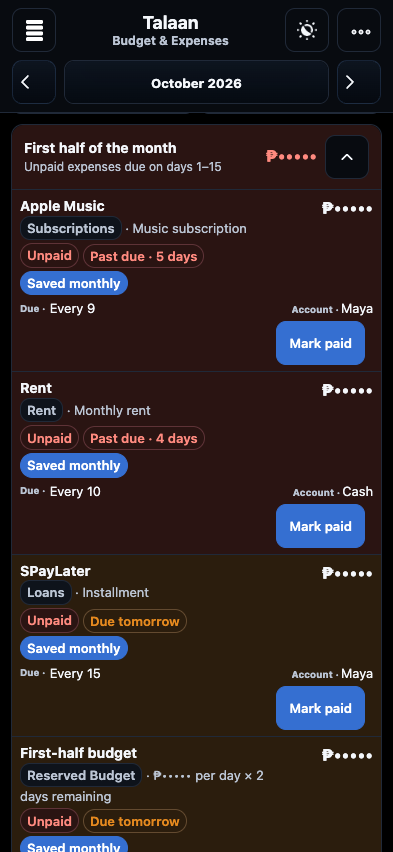
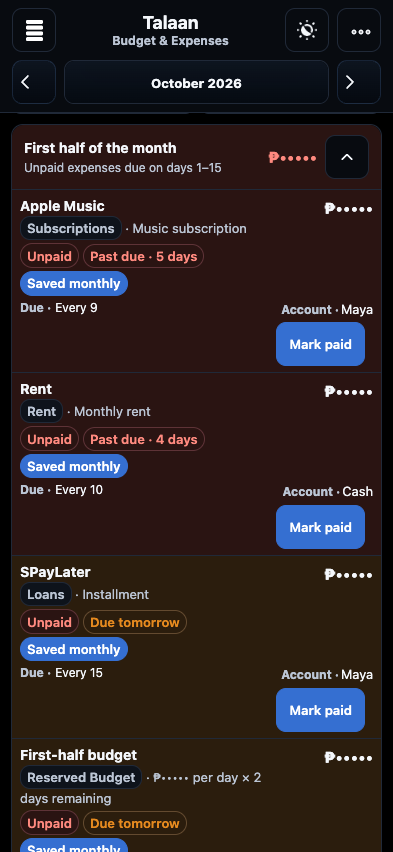
fix: normalize remaining phone annotations

diff --git a/assets/css/phone-scale.css b/assets/css/phone-scale.css
@@ -17,6 +17,23 @@
 @layer talaan-readable-ui {
 @scope (:root:has(#moneyPrioritySummary)) {
 @media (max-width:700px), (pointer:coarse) and (max-width:932px) {
+  /* Legacy spans and generated field prefixes must not bypass the copy scale. */
+  :scope body :is(#dashboard,#money,#income,#paid-expenses,#projects,#payments,#reports,#settings,dialog) :where(div,span,strong,em,b,i,a,time,dt,dd,li,abbr,sup,sub,code,kbd,samp,th,td):where(:not([aria-hidden="true"]):not(.sr-only)) {
+    font-size:var(--phone-helper-size) !important;
+    line-height:1.4 !important;
+  }
+  :scope body :is(#dashboard,#money,#income,#paid-expenses,#projects,#payments,#reports,#settings,dialog) :is(h1,h2,h3,h4,button:not(.settings-status-card):not(.calendar-day),summary,label,.amount,.period-total,.kpi-value,.summary-card-value,.legend-total,.account-card-main > strong,#moneyAvailableTotal,#moneyRemainingValue,#moneyOutstandingValue) :is(span,strong,em,b,i,abbr,time):not([aria-hidden="true"]):not(.sr-only) {
+    font-size:inherit !important;
+    line-height:inherit !important;
+  }
+  :scope body :is(#dashboard,#money,#income,#paid-expenses,#projects,#payments,#reports,#settings,dialog) [data-label]::before {
+    font-size:var(--phone-helper-size) !important;
+    line-height:1.4 !important;
+  }
+  :scope body :is(#dashboard,#money,#income,#paid-expenses,#projects,#payments,#reports,#settings) :is(.record-title-copy > strong,.account-card-label > span,.project-title-text,.calendar-day-number) {
+    font-size:var(--phone-section-title-size) !important;
+    line-height:1.4 !important;
+  }
   :scope body :is(#dashboard,#money,#income,#paid-expenses,#projects,#payments,#reports,#settings) :is(h1,h2) {
     font-size:var(--phone-page-title-size) !important;
     line-height:1.3 !important;
@@ -87,6 +104,13 @@
   }
   :scope body label:has(> input:is([type="checkbox"],[type="radio"])) { min-width:44px !important; min-height:44px !important; }
   :scope body .icon-name-control { grid-template-columns:44px minmax(0,1fr) !important; gap:8px !important; }
+  :scope body #settings .settings-status-copy { min-width:0 !important; }
+  :scope body #settings .settings-status-copy :is(strong,small) {
+    white-space:normal !important;
+    overflow-wrap:anywhere;
+    overflow:visible !important;
+    text-overflow:clip !important;
+  }
   :scope body #money #moneyPrioritySummary { padding:12px !important; }
   :scope body #money :is(.account-card,.record-row[data-expense-row]) { padding:6px 8px !important; }
   :scope body #money :is(#availableMoneySection .card-header,.period-header) {

diff --git a/assets/css/expense-compact.css b/assets/css/expense-compact.css
@@ -2652,7 +2652,7 @@ html body #paidExpenseList .desktop-record-actions > [data-toggle-saved] .saved-
   :scope body #money :is(.account-card-label small,.record-title-copy small,.record-label,.record-meta,.record-status-chip,.summary-card-label) { font-size:13px !important; line-height:1.4 !important; }
   :scope body #money :is(.ui-tag,.status-badge,.expense-inline-note,.due-cell,[data-label]:not(.amount)) { font-size:13px !important; line-height:1.4 !important; }
   :scope body #money :is(.account-card-label > span,.account-card-main > span,.record-title-copy > strong,.period-header h3,.card-header h3) { font-size:14px !important; line-height:1.4 !important; }
-  :scope body #money :is(.account-card-main > strong,.amount,.period-total,#moneyAvailableTotal) { font-size:17px !important; line-height:1.4 !important; }
+  :scope body #money :is(.account-card-main > strong,.amount,.period-total,#moneyAvailableTotal) { font-size:var(--phone-amount-size,17px) !important; line-height:1.4 !important; }
   :scope body #money :is(.record-row[data-expense-row],.account-card) { height:auto !important; max-height:none !important; }
   :scope body #money .record-row[data-expense-row] .record-title-copy { white-space:normal !important; }
   :scope body #money .record-row[data-expense-row] .record-title-copy > :is(strong,small) { white-space:normal !important; overflow:visible !important; }

diff --git a/index.html b/index.html
@@ -58,7 +58,7 @@
   <link rel="stylesheet" href="./production-ui-audit.css?v=2.5.0-talaan1">
   <link rel="stylesheet" href="./summary-mascots.css?v=2.5.0-ui-37fc672009f7">
   <link rel="stylesheet" href="./ui-radius.css?v=2.5.0-ui-37fc672009f7">
-  <link rel="stylesheet" href="./phone-scale.css?v=2.5.0-phone-821cadd250e7">
+  <link rel="stylesheet" href="./phone-scale.css?v=2.5.0-phone-bb3dc462dbe6">
   <script src="./form-inputs.js?v=2.5.0-talaan1"></script>
   <script src="./application-help.js?v=2.5.0-talaan1"></script>
   <script src="./pwa-update.js?v=2.5.0-talaan1"></script>

diff --git a/sw.js b/sw.js
@@ -26,7 +26,7 @@ const APP_SHELL = [
   asset("./desktop-ux.css?v=2.5.0-talaan1"),
   asset("./production-ui-audit.css?v=2.5.0-talaan1"),
   asset("./summary-mascots.css?v=2.5.0-ui-37fc672009f7"),
-  asset("./phone-scale.css?v=2.5.0-phone-821cadd250e7"),
+  asset("./phone-scale.css?v=2.5.0-phone-bb3dc462dbe6"),
   asset("./form-inputs.js?v=2.5.0-talaan1"),
   asset("./application-help.js?v=2.5.0-talaan1"),
   asset("./pwa-update.js?v=2.5.0-talaan1"),

diff --git a/docs/ui/compact-phone-scale/README.md b/docs/ui/compact-phone-scale/README.md
@@ -15,7 +15,7 @@ Approved audit findings 18–21, 14 October 2026. This change shares the phone t
 | Effective tap area | At least 44px |
 | Control / card / dialog corner | 10px / 12px / 16px |
 
-`assets/css/phone-scale.css` owns the type and touch rules. The canonical radius stylesheet owns responsive corner tokens. Portrait applies at up to 700px; coarse-pointer layouts retain the shared scale up to 932px, including iPhone landscape. Native checkbox drawings stay small inside larger labels, and calendar cells retain event space. Hidden swipe controls remain hidden until keyboard focus exposes their alternative. State changes and financial behavior are untouched.
+`assets/css/phone-scale.css` owns the type and touch rules, including legacy span annotations and generated Due/Account prefixes. The canonical radius stylesheet owns responsive corner tokens. Portrait applies at up to 700px; coarse-pointer layouts retain the shared scale up to 932px, including iPhone landscape. Native checkbox drawings stay small inside larger labels, and calendar cells retain event space. Hidden swipe controls remain hidden until keyboard focus exposes their alternative. State changes and financial behavior are untouched.
 
 The UI refresh key advances to talaan13; the phone stylesheet gets a content-hashed query shared by the document and offline shell. Application V2.5.0, Finance Schema 12, Cloud Schema V3, persistent storage, and cache identity are preserved.
 
